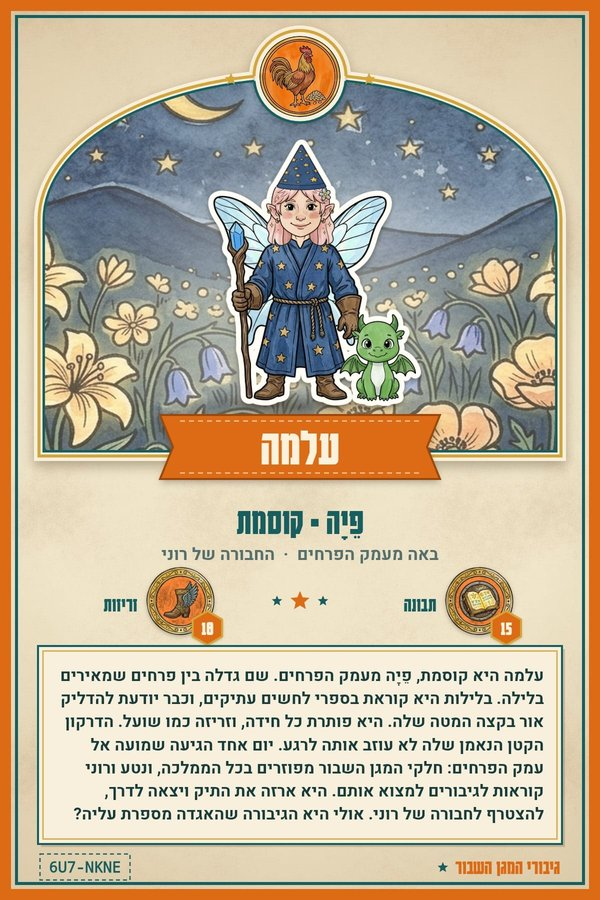
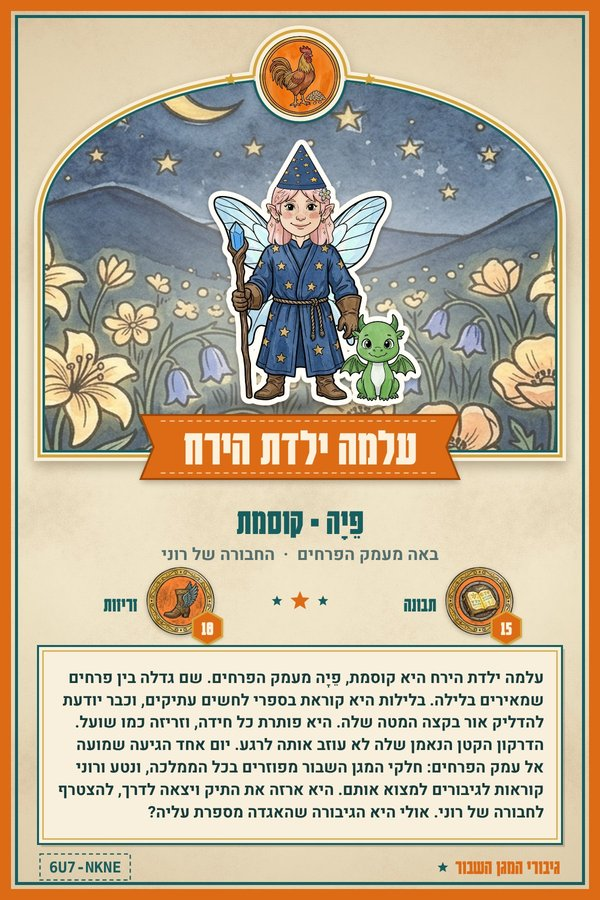
Gallery: ראם and עלמה renamed (Doron), cards re-made from their codes with the same story and dice
Claude-Session: https://claude.ai/code/session_01LEbABa26584TBcDzRTec7i

Changed region(s): [[0.09, 0.7467, 0.9, 0.9333], [0.24, 0.4356, 0.78, 0.56]]

diff --git a/gallery.js b/gallery.js
@@ -4,8 +4,8 @@
 const GALLERY = {
   0: "gallery/0.jpg",    // נטע, 2026-11-23
   1: "gallery/1.jpg",    // רוני, 2026-11-23
-  4: "gallery/4.jpg",    // עלמה, 2026-11-23
+  4: "gallery/4.jpg",    // עלמה, 2026-11-23 ("עלמה ילדת הירח": renamed by Doron, re-made from the code)
   5: "gallery/5.jpg",    // לביא, 2026-11-23
   7: "gallery/7.jpg",    // אילן, 2026-11-23
-  8: "gallery/8.jpg",    // ראם, 2026-11-23
+  8: "gallery/8.jpg",    // ראם, 2026-11-23 ("ראם חומק הצללים": renamed by Doron, re-made from the code)
 };
